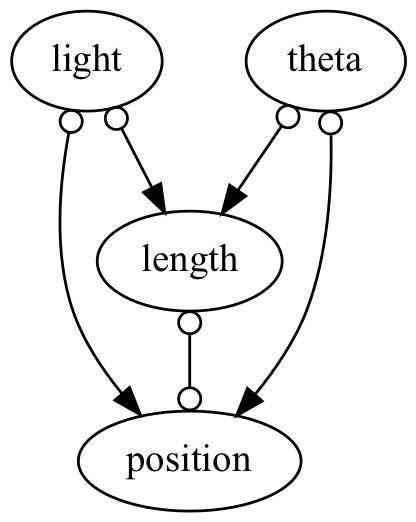
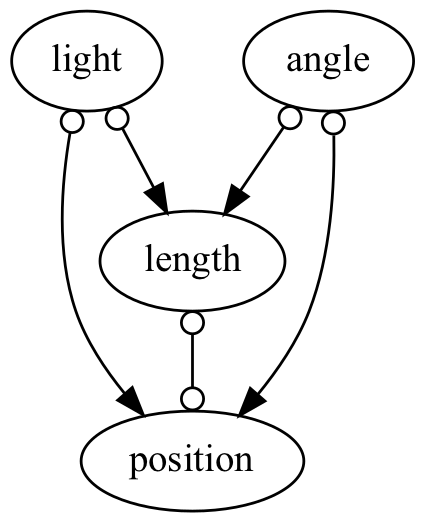
update pendulum DAG finding algorithm

diff --git a/main_DAG_v2.py b/main_DAG_v2.py
@@ -1,0 +1,160 @@
+#%%
+import os
+os.environ['KMP_DUPLICATE_LIB_OK']='True'
+os.chdir(os.path.dirname(os.path.abspath(__file__)))
+#%%
+import numpy as np
+import pandas as pd
+import tqdm
+from PIL import Image
+import io
+import matplotlib.pyplot as plt
+import matplotlib.image as mpimg
+plt.switch_backend('agg')
+
+from utils.simulation import (
+    set_random_seed,
+    is_dag,
+    count_accuracy
+)
+
+from utils.viz import (
+    viz_graph,
+    viz_heatmap,
+)
+
+from utils.trac_exp import trace_expm
+#%%
+"""
+wandb artifact cache cleanup "1GB"
+"""
+import sys
+import subprocess
+try:
+    import wandb
+except:
+    subprocess.check_call([sys.executable, "-m", "pip", "install", "wandb"])
+    with open("../wandb_api.txt", "r") as f:
+        key = f.readlines()
+    subprocess.run(["wandb", "login"], input=key[0], encoding='utf-8')
+    import wandb
+
+wandb.init(
+    project="(causal)VAE", 
+    entity="anseunghwan",
+    tags=["causal_discovery"]
+)
+#%%
+import argparse
+def get_args(debug):
+    parser = argparse.ArgumentParser('parameters')
+
+    parser.add_argument('--seed', type=int, default=1, 
+                        help='seed for repeatable results')
+    
+    parser.add_argument('--alpha', type=float, default=0.05, 
+                        help='confidence level')
+
+    if debug:
+        return parser.parse_args(args=[])
+    else:    
+        return parser.parse_args()
+#%%
+def main():
+    config = vars(get_args(debug=True)) # default configuration
+    wandb.config.update(config)
+
+    set_random_seed(config["seed"])
+
+    train_imgs = os.listdir('./utils/causal_data/pendulum/train')
+    label = np.array([x[:-4].split('_')[1:] for x in train_imgs]).astype(float)
+    label = label - label.mean(axis=0).round(2) 
+    print("Label Dataset Mean:", label.mean(axis=0).round(2))
+    print("Label Dataset Std:", label.std(axis=0).round(2))
+    # label = label / label.std(axis=0)
+    names = ['light', 'angle', 'length', 'position']
+    
+    data = label[np.random.choice(len(label), int(len(label) * 0.1), replace=False), :]
+    # data = label
+
+    from causallearn.utils.GraphUtils import GraphUtils
+    
+    """PC algorithm : CPDAG"""
+    from causallearn.search.ConstraintBased.PC import pc
+    cg = pc(data=data, 
+            alpha=config["alpha"], 
+            indep_test='kci') # Kernel-based conditional independence (KCI) test
+    print(cg.G)
+    # visualization
+    pdy = GraphUtils.to_pydot(cg.G, labels=names)
+    pdy.write_png('assets/graph_PC.png')
+    fig = Image.open('assets/graph_PC.png')
+    wandb.log({'PC_algorithm': wandb.Image(fig)})
+
+    """FCI algorithm : PAG"""
+    from causallearn.search.ConstraintBased.FCI import fci
+    G, edges = fci(dataset=data, 
+                   independence_test_method='kci', # Kernel-based conditional independence (KCI) test
+                   alpha=config["alpha"])
+    print(G) # https://www.nature.com/articles/s41598-020-59669-x
+    print(G.graph)
+    # visualization
+    pdy = GraphUtils.to_pydot(G, labels=names)
+    pdy.write_png('assets/graph_FCI.png')
+    fig = Image.open('assets/graph_FCI.png')
+    wandb.log({'FCI_algorithm': wandb.Image(fig)})
+    
+    # """GES algorithm"""
+    # from causallearn.search.ScoreBased.GES import ges
+    # Record = ges(X=data, 
+    #              score_func='local_score_BIC')
+    # # visualization
+    # pdy = GraphUtils.to_pydot(Record['G'], labels=names)
+    # pdy.write_png('assets/graph_GES.png')
+    # fig = Image.open('assets/graph_GES.png')
+    # wandb.log({'GES_algorithm': wandb.Image(fig)})
+    
+    # """Exact Search algorithm"""
+    # from causallearn.search.ScoreBased.ExactSearch import bic_exact_search
+    # dag_est, search_stats = bic_exact_search(X=data)
+    # # visualization
+    # fig = plt.figure(figsize=(5, 4))
+    # plt.pcolor(np.flipud(dag_est), cmap='coolwarm')
+    # plt.colorbar()
+    # # plt.show()
+    # plt.savefig('assets/graph_Exact.png')
+    # plt.close()
+    # wandb.log({'Exact_algorithm': wandb.Image(fig)})
+    
+    # """ICA-based LinGAM"""
+    # from causallearn.search.FCMBased import lingam
+    # model = lingam.ICALiNGAM()
+    # model.fit(X=data)
+    # # print(model.causal_order_)
+    # print(model.adjacency_matrix_)
+    # fig = plt.figure(figsize=(5, 4))
+    # plt.pcolor(np.flipud(model.adjacency_matrix_), cmap='coolwarm')
+    # plt.colorbar()
+    # # plt.show()
+    # plt.savefig('assets/graph_ICA_based_LinGAM.png')
+    # plt.close()
+    # wandb.log({'ICA_LinGAM_algorithm': wandb.Image(fig)})
+    
+    # """Direct LinGAM"""
+    # from causallearn.search.FCMBased import lingam
+    # model = lingam.DirectLiNGAM()
+    # model.fit(X=data)
+    # print(model.adjacency_matrix_)
+    # fig = plt.figure(figsize=(5, 4))
+    # plt.pcolor(np.flipud(model.adjacency_matrix_), cmap='coolwarm')
+    # plt.colorbar()
+    # # plt.show()
+    # plt.savefig('assets/graph_Direct_LinGAM.png')
+    # plt.close()
+    # wandb.log({'Direct_LinGAM_algorithm': wandb.Image(fig)})
+    
+    wandb.run.finish()
+#%%
+if __name__ == '__main__':
+    main()
+#%%

diff --git a/utils/pendulum_v2.py b/utils/pendulum_v2.py
@@ -25,12 +25,14 @@ test = pd.DataFrame(columns=['light', 'angle', 'length', 'position'])
 #%%
 """Addictive Noise Data Generating Process"""
 np.random.seed(1)
-varphi_list = np.random.normal(scale=0.5, size=100)
-theta_list = np.random.normal(scale=0.5, size=100)
+# varphi_list = np.random.normal(scale=0.5, size=100)
+# theta_list = np.random.normal(scale=0.5, size=100)
+varphi_list = np.linspace(-1, 1, 100)
+theta_list = np.linspace(-1, 1, 100)
 center = (10, 10.5) # frictionless pivot coordinate
 threshold = 45 # radian scaling factor
 l = 8 # length of pendulum
-scale = 0.1
+scale = 0.1 # measurement error
 # varphi = varphi_list[0]
 # theta = theta_list[0]
 for varphi in tqdm.tqdm(varphi_list):
@@ -58,8 +60,12 @@ for varphi in tqdm.tqdm(varphi_list):
             left = b
             right = a
         
-        length = (right - left) + np.random.normal(scale=scale)
-        position = (left + right) / 2 + np.random.normal(scale=scale)
+        # length = (right - left)
+        # position = (left + right) / 2
+        # length = (right - left) + np.random.normal(scale=scale)
+        # position = (left + right) / 2 + np.random.normal(scale=scale)
+        length = (right - left) + np.random.uniform(low=-scale, high=scale)
+        position = (left + right) / 2 + np.random.uniform(low=-scale, high=scale)
         
         objects.append(('light', varphi_))
         objects.append(('theta', theta_))
